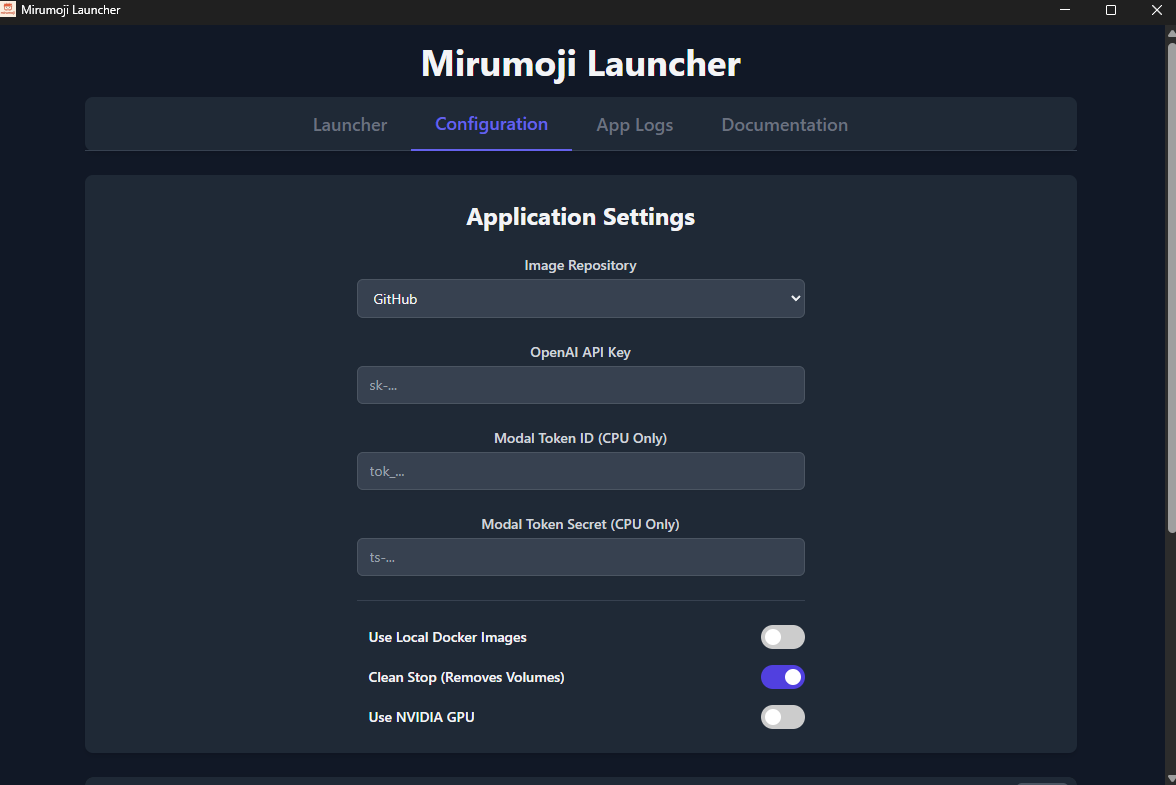
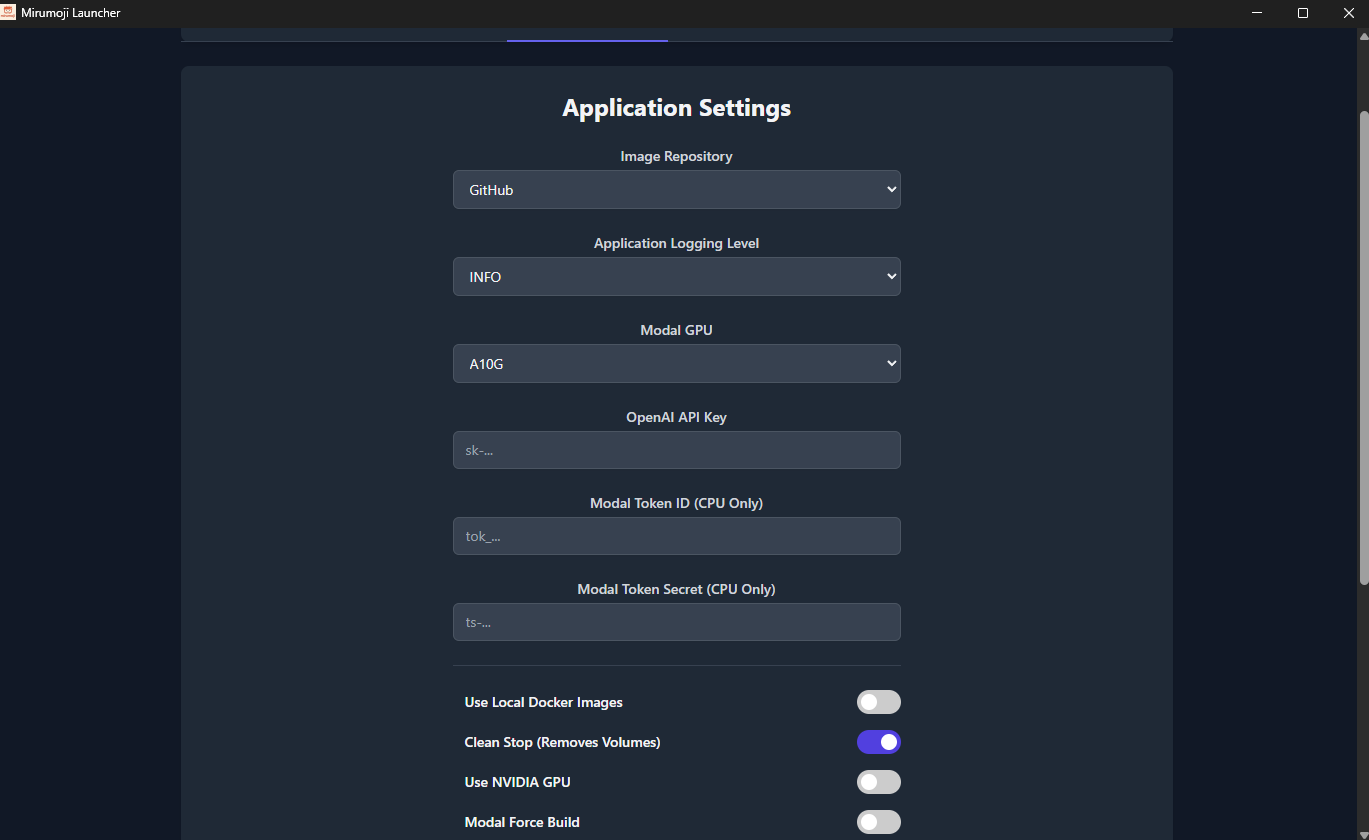
Update and Fix Documentation

diff --git a/apps/cli/mirumoji/src/mirumoji/gui/core.py b/apps/cli/mirumoji/src/mirumoji/gui/core.py
@@ -29,7 +29,7 @@ def git_installed() -> subprocess.CompletedProcess[str]:
       subprocess.CalledProcessError: If command fails
 
     Returns:
-      CompletedProcess[str]: The `subprocess.CompletedProcess` object
+      The `subprocess.CompletedProcess` object
     """
     try:
         git_check = subprocess.run(
@@ -58,7 +58,7 @@ def docker_running() -> subprocess.CompletedProcess[str]:
       subprocess.CalledProcessError: If command fails
 
     Returns:
-      CompletedProcess[str]: The `subprocess.CompletedProcess` object
+      The `subprocess.CompletedProcess` object
     """
     try:
         p = subprocess.run(
@@ -238,8 +238,7 @@ def run_command(command_list: List[str],
                                Defaults to True
 
     Returns:
-      Union[Popen[str],Generator[str,str,Popen[str]]:
-        Subprocess object with `pid`, `stdin`, `stdout`, `stderr`
+      Subprocess object with `pid`, `stdin`, `stdout`, `stderr`
         and `returncode` or a generator that yields stdout lines
         (str) and has a return value of the completed `subprocess.Popen`
         object.
@@ -371,9 +370,9 @@ def build_img(image_name: str,
       FileNotFoundError: If `dockerfile` or `build_context` couldn't be found
 
     Returns:
-      Generator[str, str, Popen[str]]: Generator that yields stdout lines
-                                       (str) and has a return value of the
-                                       completed `subprocess.Popen` object.
+      Generator that yields stdout lines
+        (str) and has a return value of the
+        completed `subprocess.Popen` object.
     """
     if not dockerfile.is_file():
         LOGGER.error(f"Dockerfile couldn't be found at '{dockerfile}'")
@@ -428,9 +427,9 @@ def docker_compose(compose_command: str,
       ValueError: If `name_only=False`and `docker_compose_file=None`
 
     Returns:
-      Generator[str, str, Popen[str]]: Generator that yields stdout lines
-                                       (str) and has a return value of the
-                                       completed `subprocess.Popen` object.
+      Generator that yields stdout lines
+        (str) and has a return value of the
+        completed `subprocess.Popen` object.
     """
     if not name_only and docker_compose_file is None:
         LOGGER.error("`name_only=False` and compose file not provided")

diff --git a/apps/backend/routers/profile_router.py b/apps/backend/routers/profile_router.py
@@ -290,7 +290,7 @@ async def get_saved_clips(
       profile_id (str): Profile ID from Header.
 
     Returns:
-      List[ClipResponse]: List of `ClipResponse` models
+      List of `ClipResponse` models
 
     Raises:
       HTTPException: If no profile ID was provided or there was an error
@@ -378,7 +378,7 @@ async def get_profile_files(
       profile_id (str): Profile ID from Header.
 
     Returns:
-      List[ProfileFileResponse]: List of `ProfileFileResponse` models
+      List of `ProfileFileResponse` models
 
     Raises:
       HTTPException: If no profile ID was provided or there was an error
@@ -478,8 +478,7 @@ async def get_profile_transcripts(
       profile_id (str): Profile ID from Header.
 
     Returns:
-      List[ProfileTranscriptResponse]: List of `ProfileTranscriptResponse`
-                                       models.
+      List of `ProfileTranscriptResponse` models.
 
     Raises:
       HTTPException: If no profile ID was provided or there was an error

diff --git a/apps/backend/profile_manager.py b/apps/backend/profile_manager.py
@@ -26,7 +26,7 @@ async def get_profile_id_from_header(
       x_profile_id (str): The X-Profile-ID Header
 
     Returns:
-      Optional[str]: The X-Profile-ID Header content.
+      The X-Profile-ID Header content.
     """
     return x_profile_id
 
@@ -91,9 +91,9 @@ async def get_profile_id_optional(
       profile_id (str): Profile ID from header.
 
     Returns:
-      Optional[strt]: If profile ID if X-Profile-ID is provided and the
-                        profile exists or could be implicitly created
-                        returns str, otherwise returns None.
+      If X-Profile-ID is provided and the profile
+        exists or could be implicitly created returns str,
+        otherwise returns None.
     """
     if not profile_id:
         return None

diff --git a/apps/backend/utils/system_info_utils.py b/apps/backend/utils/system_info_utils.py
@@ -16,7 +16,7 @@ def gpu_available() -> Dict[str, Union[bool, str]]:
     Check if there's a GPU available in the machine running the program.
 
     Returns:
-      Dict[str, Union[bool, str]: Dict with keys "available" and "name".
+      Dict with keys "available" and "name".
     """
     try:
         import torch
@@ -38,7 +38,7 @@ def get_system_info() -> Dict[str, Any]:
     Collects basic information about the system running the program.
 
     Returns:
-      Dict[str, Any]: Dict with information about the system.
+      Dict with information about the system.
     """
     info: Dict[str, Any] = {
         "time": datetime.datetime.now().isoformat(timespec="seconds") + "Z",

diff --git a/apps/cli/mirumoji/src/mirumoji/gui/router.py b/apps/cli/mirumoji/src/mirumoji/gui/router.py
@@ -75,7 +75,7 @@ def check_docker() -> Dict[str, bool]:
     GET endpoint which checks if Docker deamon is running
 
     Returns:
-      Dict[str,bool]: Dictionary with `status` key
+      Dictionary with `status` key
     """
     try:
         p = docker_running()
@@ -93,7 +93,7 @@ def has_gpu() -> Dict[str, bool]:
     GET endpoint which checks if the system has an NVIDIA GPU installed
 
     Returns:
-      Dict[str,bool]: Dictionary with `status` key
+      Dictionary with `status` key
     """
     return {"status": has_nvidia_gpu()}
 

diff --git a/apps/cli/mirumoji/src/mirumoji/launcher.py b/apps/cli/mirumoji/src/mirumoji/launcher.py
@@ -163,8 +163,8 @@ def run_command(command_list: List[str],
                                Defaults to True.
 
     Returns:
-      Popen[str]: Subprocess object with `pid`, `stdin`, `stdout`, `stderr`
-                  and `returncode`
+      Subprocess object with `pid`, `stdin`, `stdout`, `stderr`
+        and `returncode`
 
     Raises:
       subprocess.CalledProcessError: If command raises an error and

diff --git a/apps/backend/utils/file_utils.py b/apps/backend/utils/file_utils.py
@@ -197,6 +197,7 @@ class MediaFileHandler:
                                                  media directory.
           check (bool, optional): If True, raise error on failure, otherwise
                                   skip. Defaults to False
+
         Raises:
           OSError: If the file cannot be deleted and `check=True`
         """

diff --git a/apps/backend/modal_processing/ModalApp.py b/apps/backend/modal_processing/ModalApp.py
@@ -71,7 +71,7 @@ def transcribe_srt_job(media_fp: Union[str, Path],
                                           transcription. Defaults to True
 
     Returns:
-      Optional[str]: Transcription in form of SRT string.
+      Transcription in form of SRT string.
     """
     from processing.whisper_wrapper import FWhisperWrapper
 

diff --git a/docs/site/docs_md/Launcher-GUI-Guide.md b/docs/site/docs_md/Launcher-GUI-Guide.md
@@ -35,6 +35,10 @@ The Mirumoji Launcher (`mirumoji-gui`) is the recommended way to install, config
     This tab allows you to configure all aspects of your Mirumoji installation before you start it.
     ???+ info "**Image Repository**"
         Choose whether to download the pre-built Docker images from `GitHub` or `DockerHub`.
+    ???+ info "**Application Logging Level**"
+        Choose at what level logging gets printed during application runtime.
+    ???+ info "**Modal GPU**"
+        Choose what GPU will be used to process requests in the Modal container.
     ???+ info "**OpenAI API Key** **(Required)**"
         You must provide a valid OpenAI API key for the application's AI features to work.
     ???+ info "**Modal Tokens (CPU Only)**"
@@ -47,6 +51,10 @@ The Mirumoji Launcher (`mirumoji-gui`) is the recommended way to install, config
         If an NVIDIA GPU is detected on your system, this option will be available. Toggling it on will use the GPU-enabled backend for significantly faster AI performance.
         ??? warning
             The availability of the "Use NVIDIA GPU" option depends on whether an NVIDIA GPU is detected on your system and if the necessary drivers and NVIDIA Container Toolkit are installed. Refer to the [`Manual Setup Guide`](Manual-Setup.md) for more details.
+    ???+ info "**Modal Force Build**"
+        When using Modal, this will make the container re-pull the latest version of the Modal container image
+        if it's not on, Modal will use the latest version it has on cache. This should only be on when you want
+        to update the version you're using on your account to the latest one.
     </figcaption>
     </figure>
 

diff --git a/docs/site/docs_md/Launcher-CLI-Docs.md b/docs/site/docs_md/Launcher-CLI-Docs.md
@@ -104,9 +104,9 @@ mirumoji shutdown [OPTIONS]
 
 ??? tip "Steps Performed"
 
-   > -   Verifies options which were not passed as options flags.
-   >
-   > -   Runs appropriate Docker Compose command to stop application.
+    > -   Verifies options which were not passed as options flags.
+    >
+    > -   Runs appropriate Docker Compose command to stop application.
 
 ??? info "Options"
     | Option                 | Description                                                                                        |

diff --git a/docs/site/docs_md/Python-Package/GUI-Launcher.md b/docs/site/docs_md/Python-Package/GUI-Launcher.md
@@ -1,0 +1,1 @@
+:::mirumoji.gui_launcher

diff --git a/docs/site/docs_md/Python-Package/CLI.md b/docs/site/docs_md/Python-Package/CLI.md
@@ -1,0 +1,1 @@
+:::mirumoji.launcher
